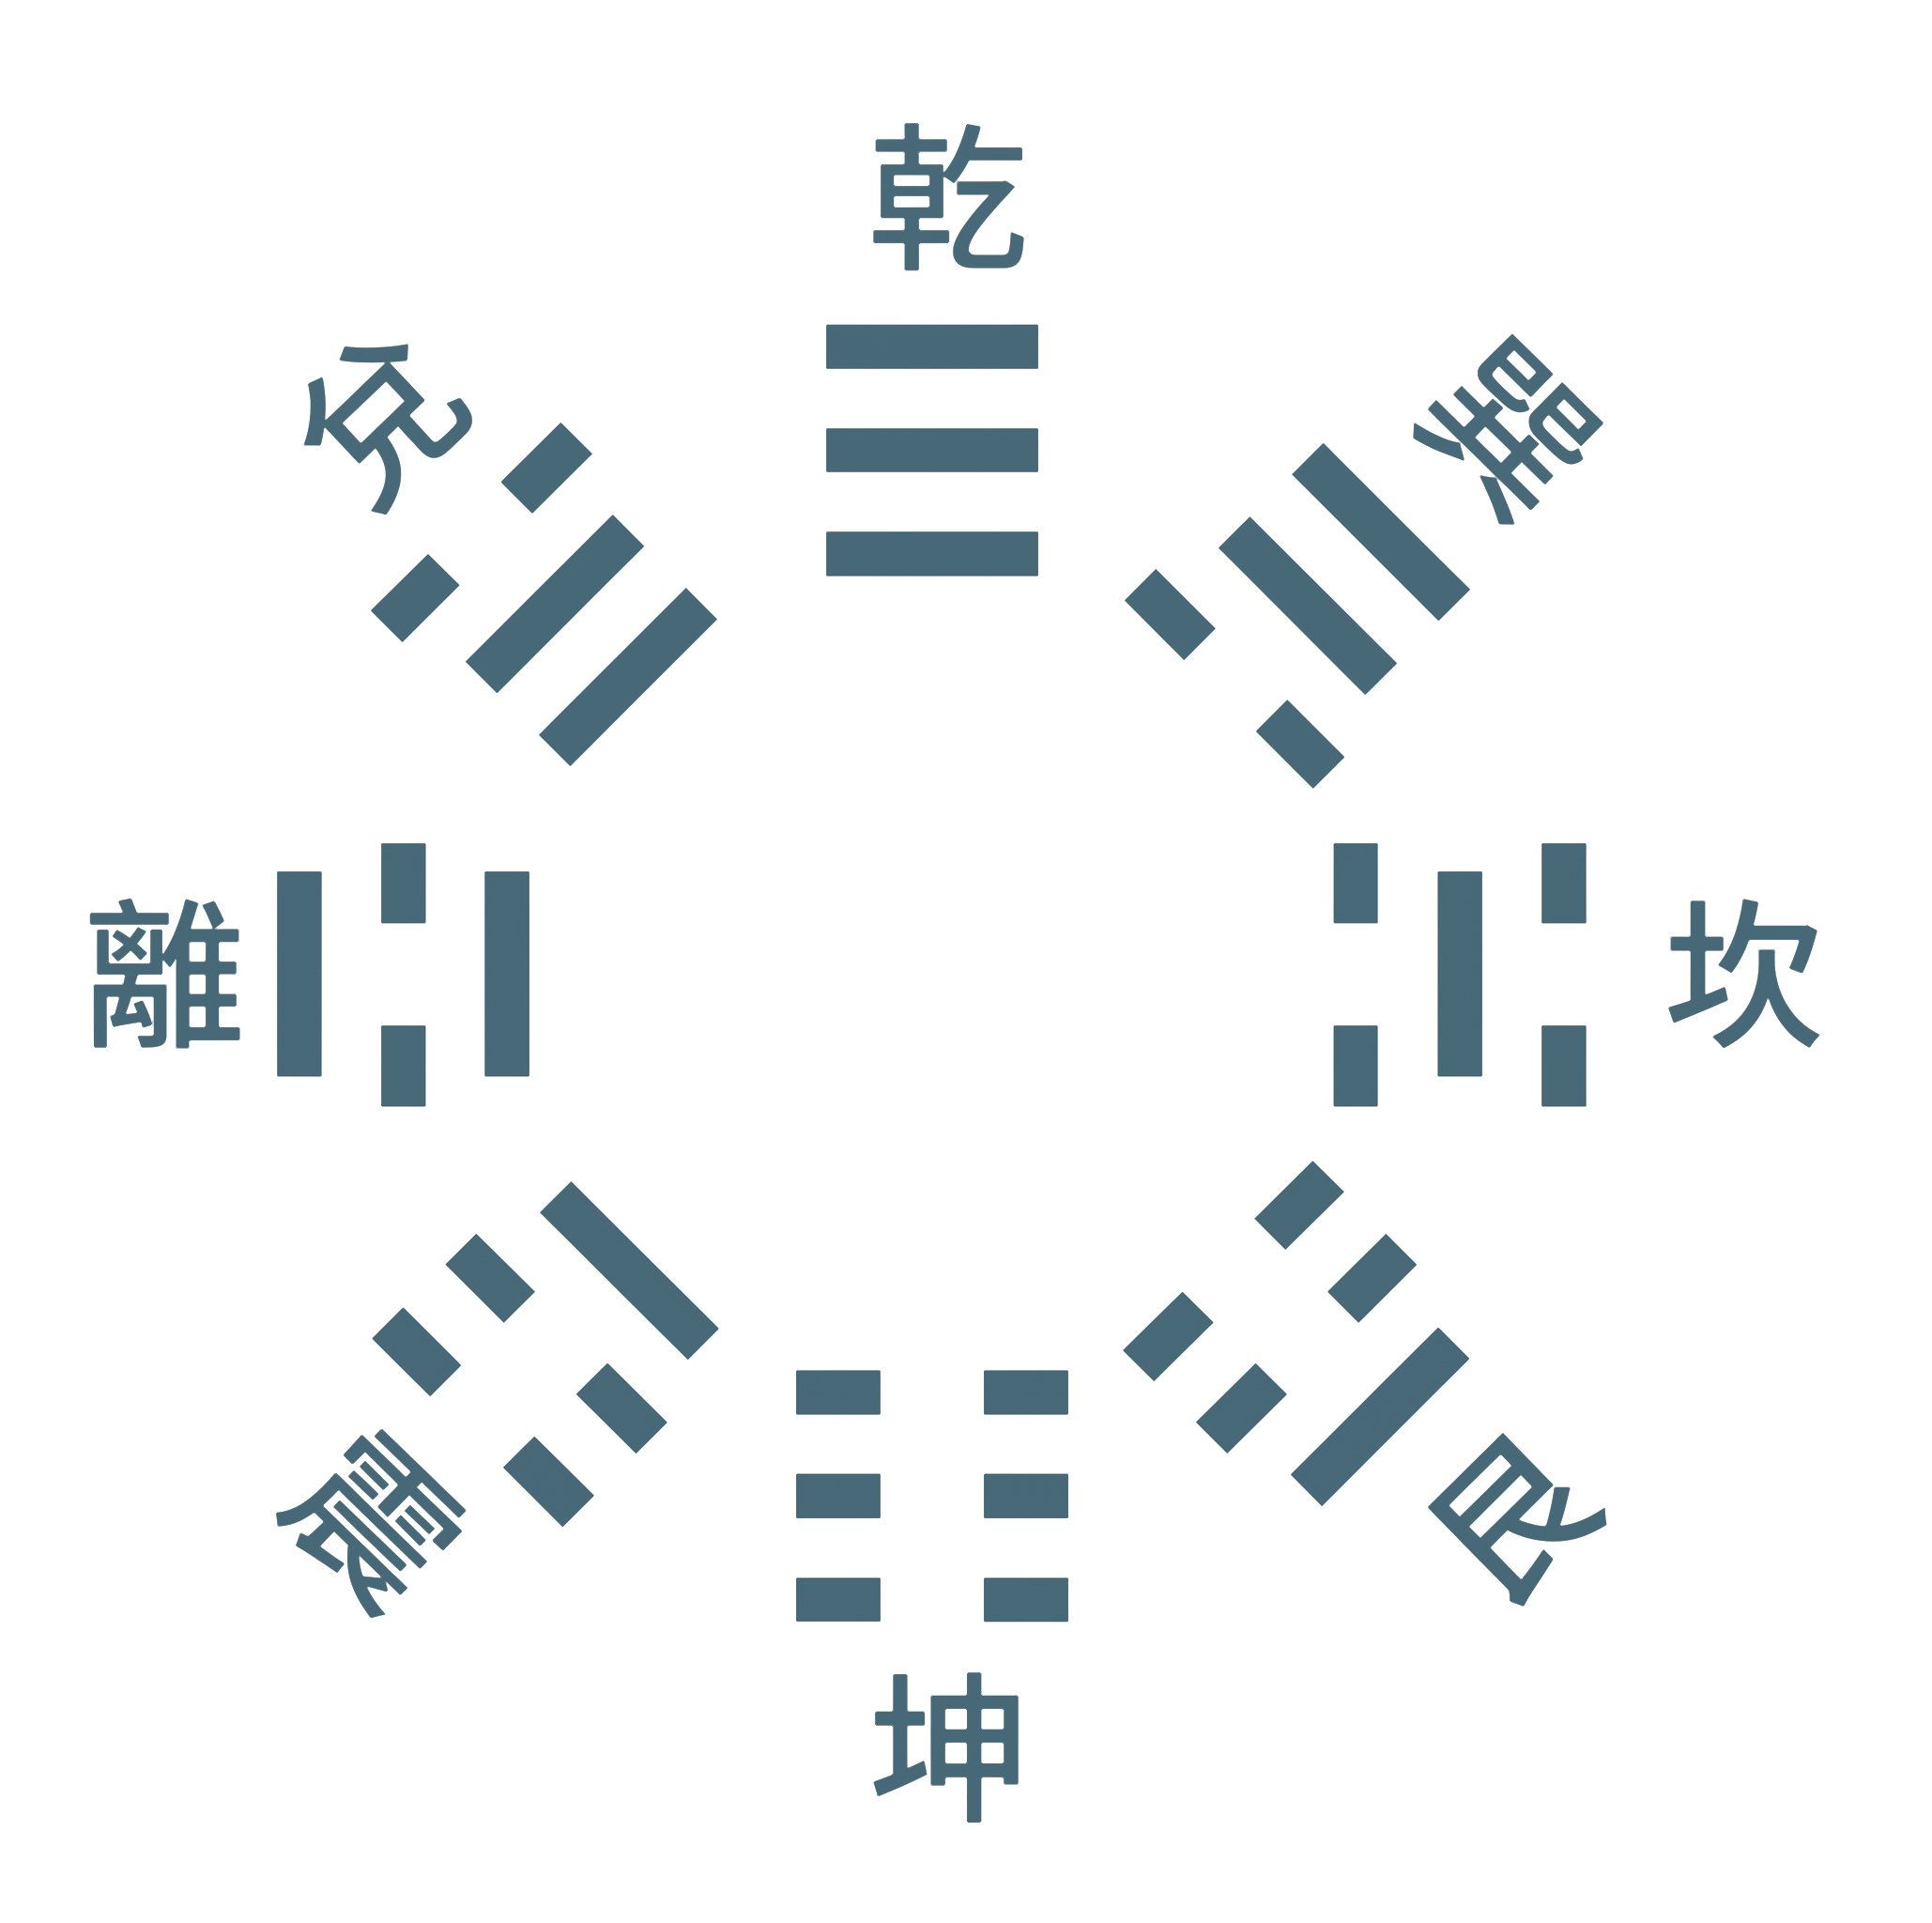
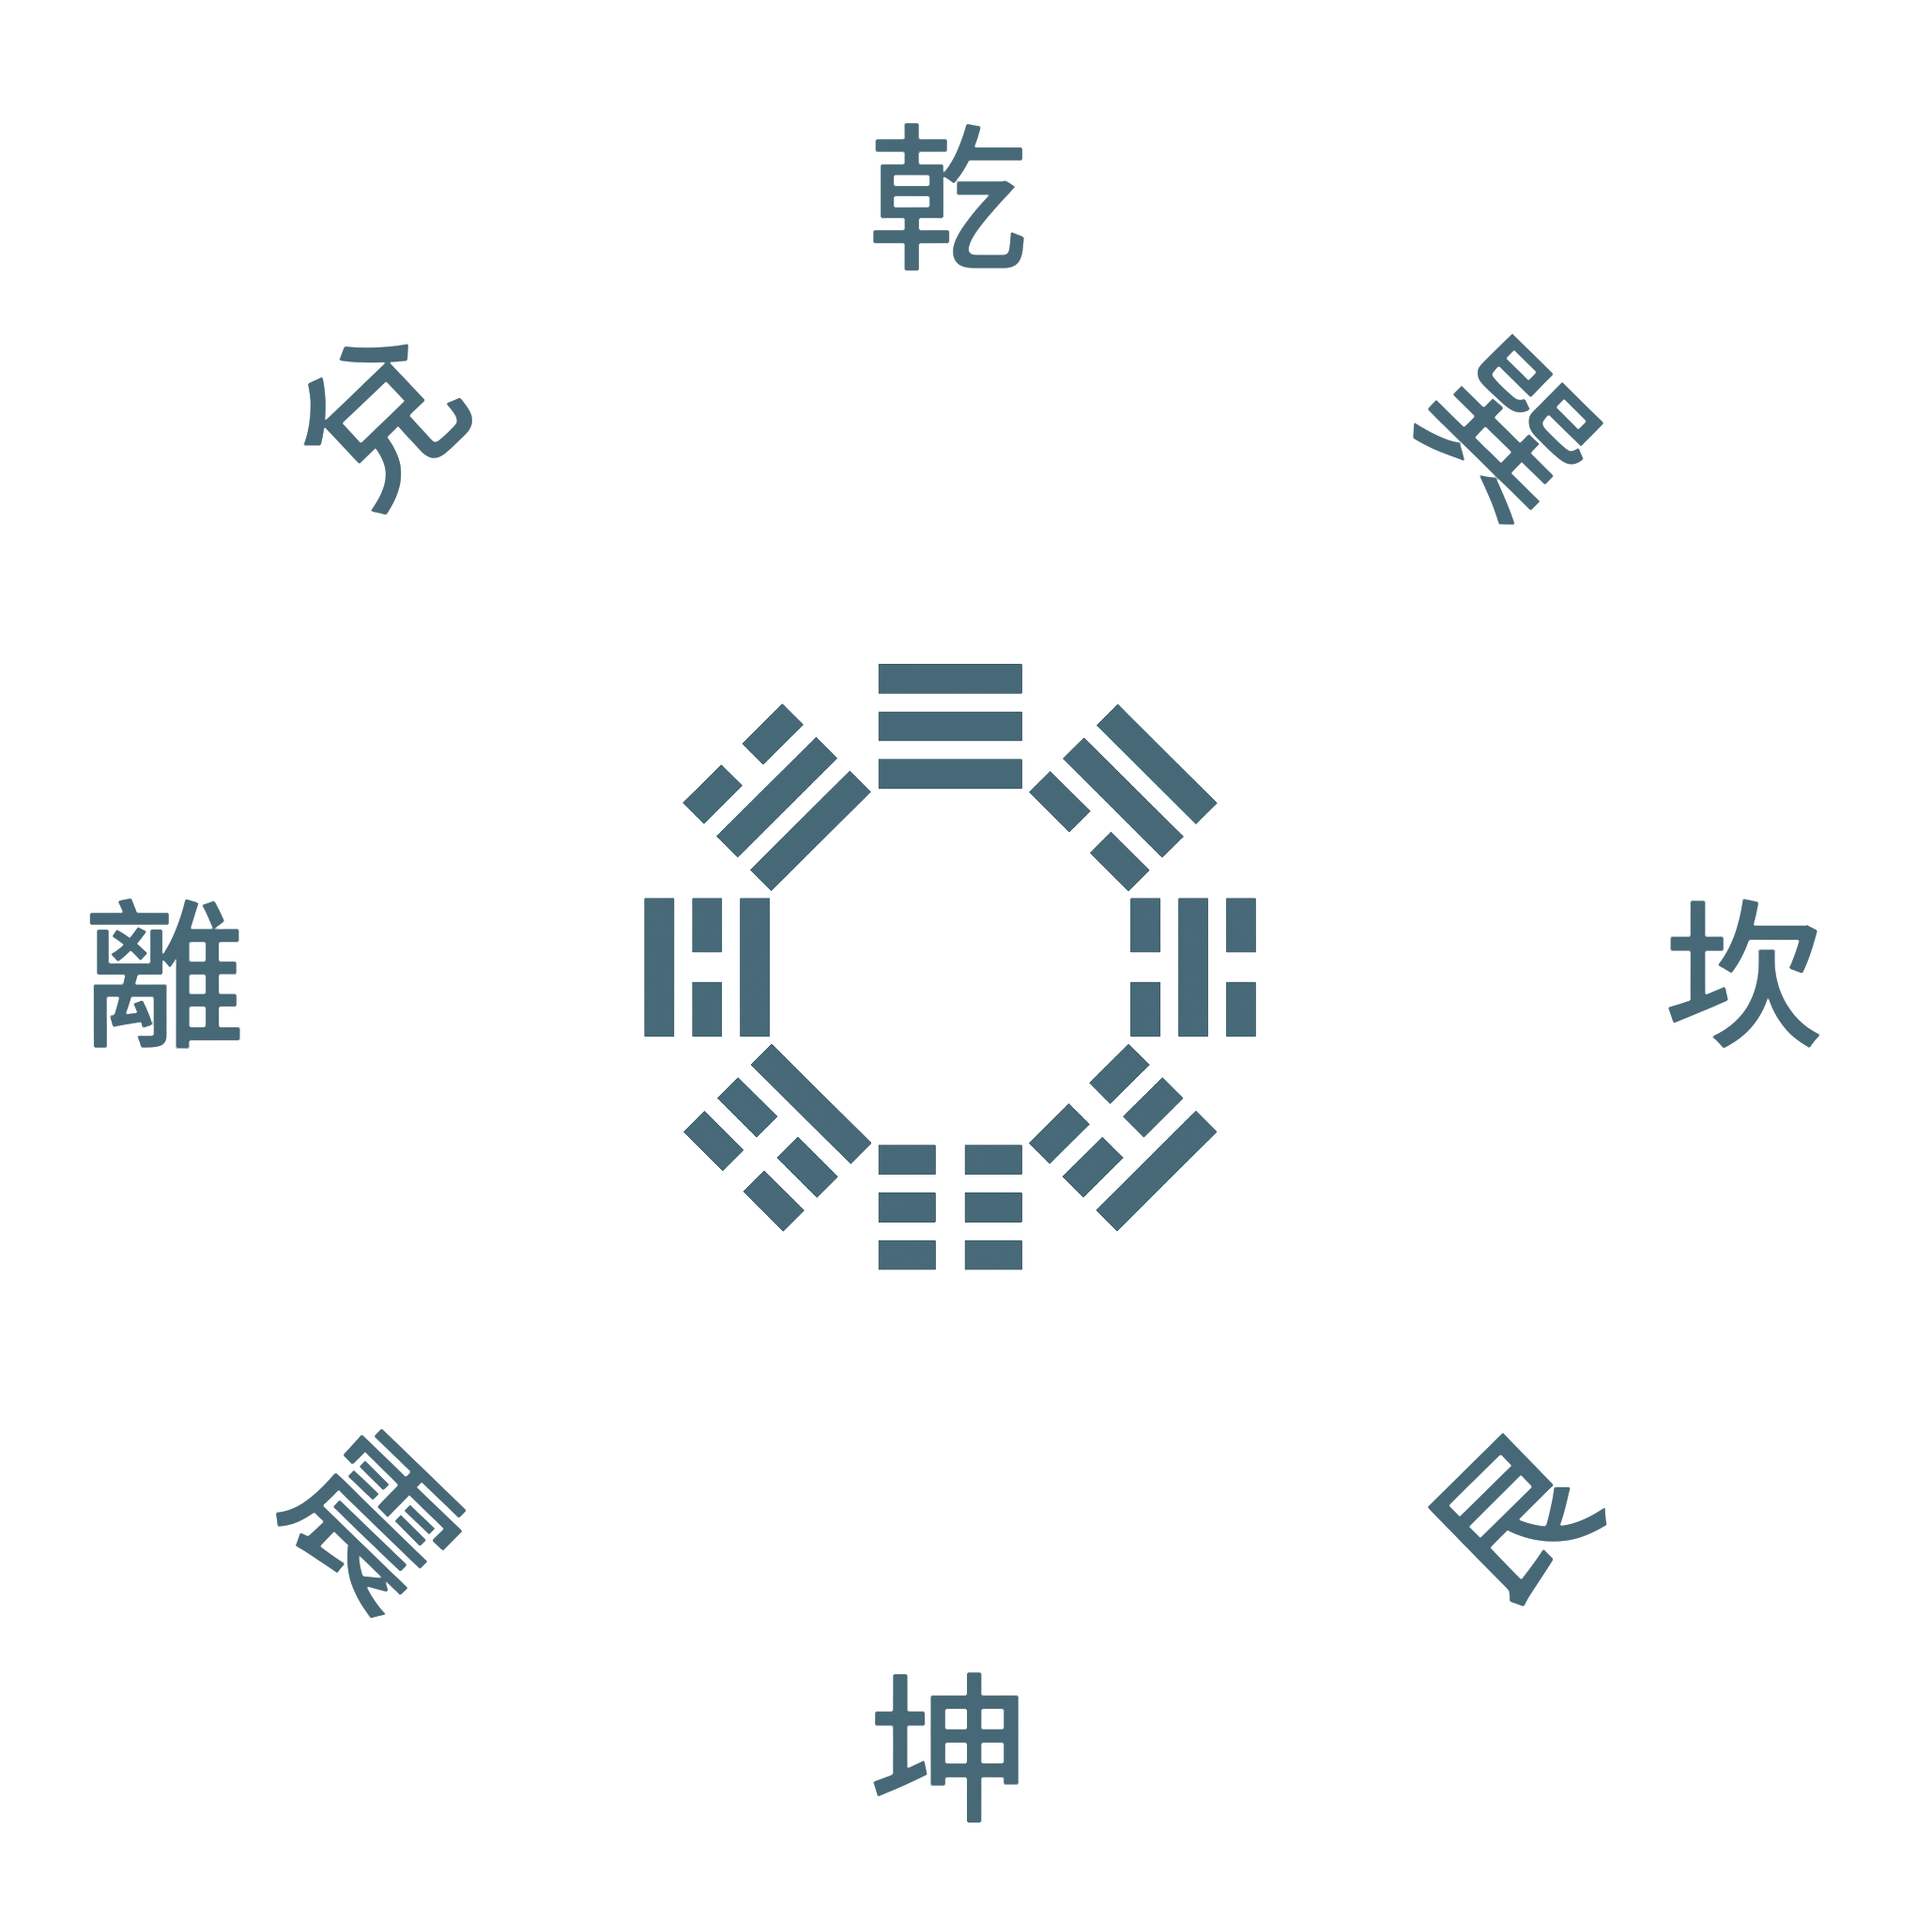
Move mobile title above bagua

diff --git a/index.html b/index.html
@@ -413,12 +413,12 @@
         #content {
             position: absolute;
             left: 50%;
-            top: 50%;
+            top: clamp(22px, 5vh, 54px);
             z-index: 4;
-            width: min(420px, calc(100vw - 48px));
+            width: min(560px, calc(100vw - 36px));
             padding: 0 16px;
             text-align: center;
-            transform: translate(-50%, -50%);
+            transform: translateX(-50%);
             pointer-events: none;
         }
 
@@ -426,9 +426,12 @@
             margin: 0;
             color: var(--ink);
             font-size: 42px;
-            font-weight: 800;
+            font-family: "BiauKai", "Kaiti TC", "STKaiti", "KaiTi", "DFKai-SB", serif;
+            font-weight: 700;
             letter-spacing: 0;
-            text-shadow: 0 1px 0 rgba(247, 232, 214, 0.72);
+            text-shadow:
+                0 1px 0 rgba(247, 232, 214, 0.72),
+                0 4px 16px rgba(6, 51, 70, 0.10);
         }
 
         #status-text {
@@ -651,7 +654,7 @@
             }
 
             #content h1 {
-                font-size: 30px;
+                font-size: 32px;
             }
 
             #status-text {
@@ -682,14 +685,14 @@
             <div class="field-surface"></div>
             <div id="center-bagua-wrap" aria-hidden="true">
                 <picture id="center-bagua-picture">
-                    <source media="(max-width: 720px)" srcset="./assets/local-bagua-mobile.png">
+                    <source media="(max-width: 720px)" srcset="./assets/local-bagua-mobile.png?v=2">
                     <img id="center-bagua" src="./assets/local-bagua-transparent.png" alt="">
                 </picture>
             </div>
             <div id="bagua-ring" aria-hidden="true"></div>
             <div id="target-layer" aria-hidden="true"></div>
             <div id="content">
-                <h1>八顆珠</h1>
+                <h1>奇心爻形串珠光</h1>
                 <p id="status-text" aria-live="polite"></p>
             </div>
         </div>